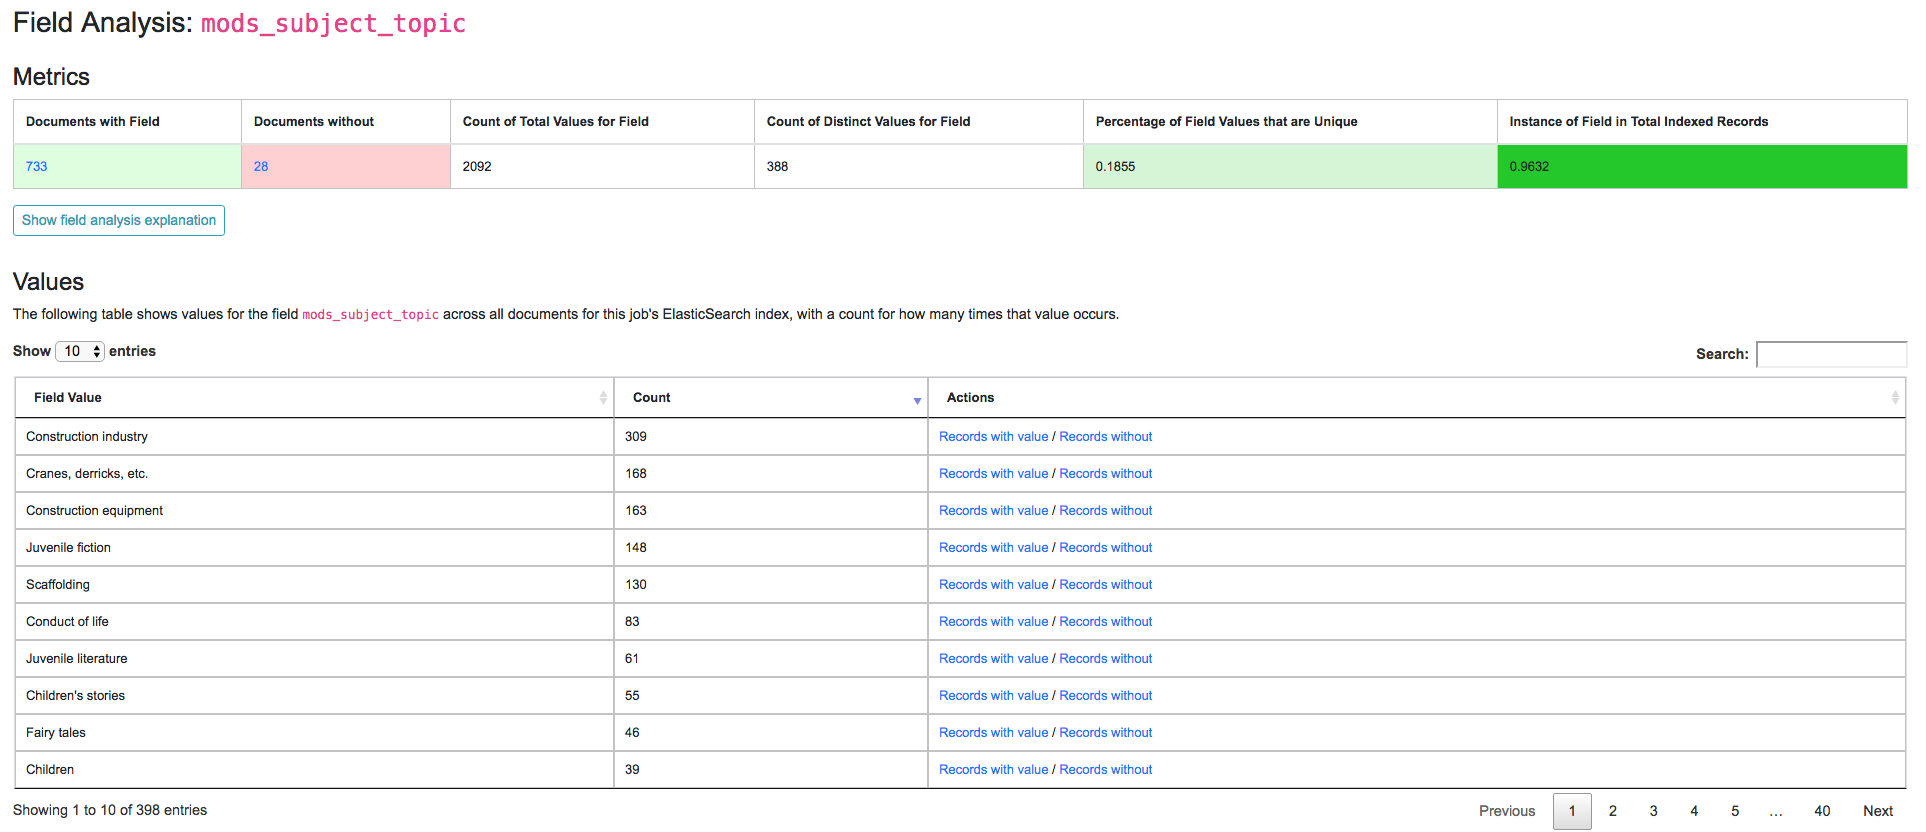
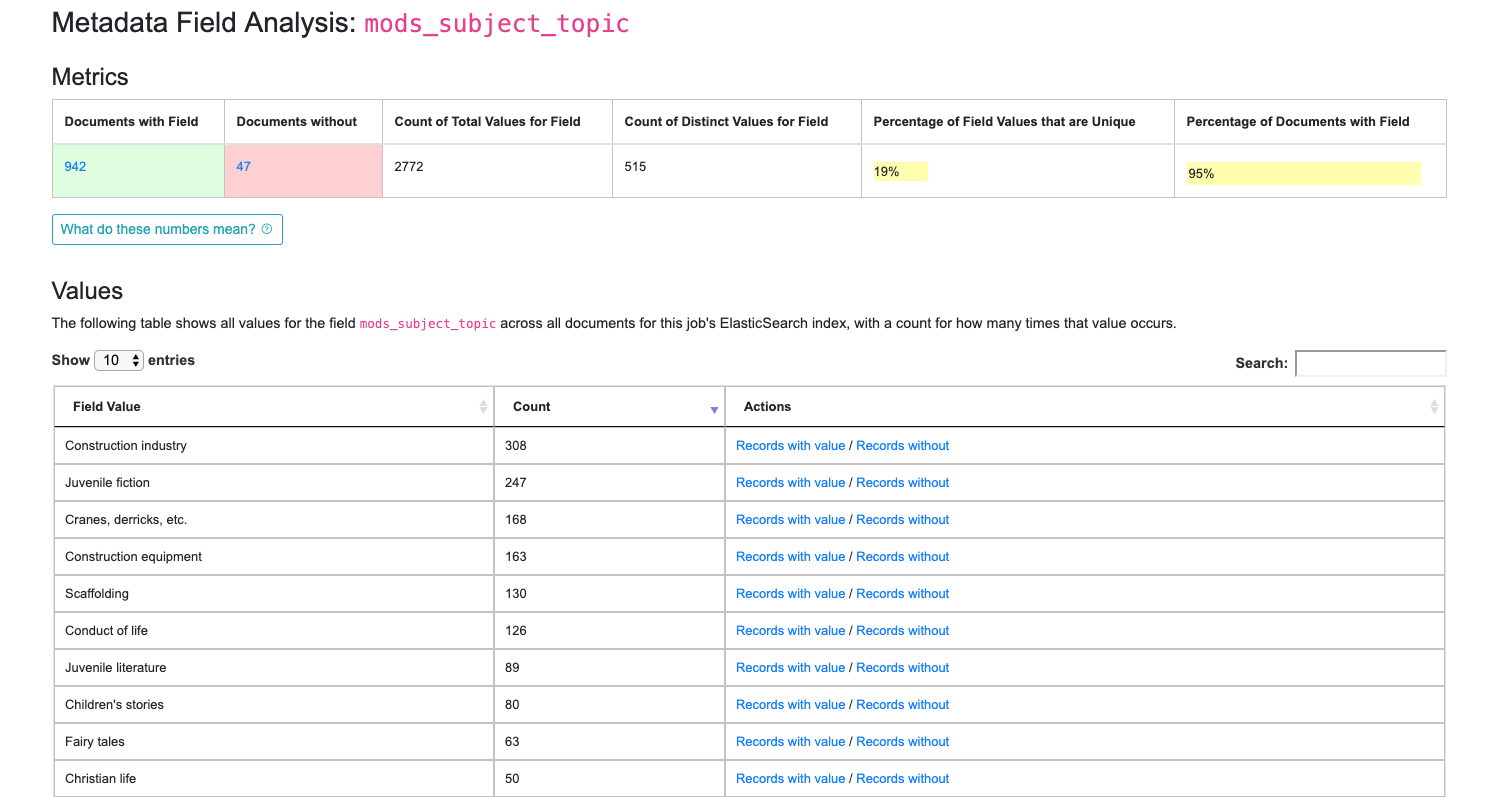
updating mapped fields documentation

diff --git a/docs/analysis.rst b/docs/analysis.rst
@@ -28,13 +28,13 @@ Below, is an example of an Analysis Job comparing two Jobs, from *different* Rec
 Analyzing Indexed Fields
 ========================
 
-Undoubtedly one of Combine's more interesting, confusing, and potentially powerful areas is the indexing of Record's XML into ElasticSearch.  This section will outline how that happens, and some possible insights that can be gleamed from the results.
+Undoubtedly one of Combine's more interesting, confusing, and potentially powerful areas is the indexing of Record XML into ElasticSearch.  This section will outline how that happens, and some possible insights that can be gleamed from the results.
 
 
 How and Why?
 ------------
 
-All Records in Combine store their raw metadata as XML in MySQL.  With that raw metadata, are some other fields about validity, internal identifiers, etc., as they relate to the Record.  But, because the metadata is still an opaque XML "blob" at this point, it does not allow for inspection or analysis.  To this end, when all Jobs are run, all Records are also **indexed** in ElasticSearch.
+All Records in Combine store their raw metadata as XML in a Mongo database.  With that raw metadata, are some other fields about validity, internal identifiers, etc., as they relate to the Record.  But, because the metadata is still an opaque XML "blob" at this point, it does not allow for inspection or analysis.  To this end, when all Jobs are run, all Records are also **indexed** in ElasticSearch.
 
 As many who have worked with complex metadata can attest to, flattening or mapping hierarchical metadata to a flat document store like ElasticSearch or Solr is difficult.  Combine approaches this problem by generically flattening all elements in a Record's XML document into XPath paths, which are converted into field names that are stored in ElasticSearch.  This includes attributes as well, further dynamically defining the ElasticSearch field name.
 
@@ -52,17 +52,13 @@ would become the following ElasticSearch field name:
 
 While ``mods_accessCondition_@type_useAndReproduction`` is not terribly pleasant to look at, it's telling where this value came from inside the XML document.  And most importantly, this generic XPath flattening approach can be applied across all XML documents that Combine might encounter.
 
-When running Jobs, users `can select what "Index Mapper" to use <workflow.html#id2>`_, and a user may notice in addition to the ``Generic XPath based mapper``, which is outlined above, Combine also ships with another mapper called ``Custom MODS mapper``.  This is mentioned to point out that other, custom mappers could be created and used if desired.
-
-The ``Custom MODS mapper`` is based on an old XSLT flattening map from MODS to Solr that early versions of Islandora used.  The results from this mapper result in far fewer indexed fields, which has pros and cons.  If the mapping is known and tightly controlled, this could be helpful for precise analysis of where information is going.  But, the generic mapper will -- in some way -- map all values from the XML record to ElasicSearch for analysis, albeit with unsightly field names.  Choices, choices!
-
-Creating a custom mapper would require writing a new class in the file ``core/spark/es.py``, matching the functionality of a pre-existing mapper like ``class GenericMapper(BaseMapper)``.
+This "flattening", aka "mapping", of XML to fields that can be stored and readily queried in ElasticSearch is done through `Field Mapping Configurations <configuration.html#field-mapper-configurations>`__.
 
 
 Breakdown of indexed fields for a Job
 ~~~~~~~~~~~~~~~~~~~~~~~~~~~~~~~~~~~~~
 
-When viewing the details of a Job, the tab "Field Analysis" shows a breakdown of all fields, for all documents in ElasticSearch, from this job in a table.  These are essentially facets.
+When viewing the details of a Job, the tab "Mapped Fields" shows a breakdown of all fields, for all records in this job, in a table.  They can be thought of roughly as **facets** for the Job.
 
 .. figure:: img/job_indexed_fields_example.png
    :alt: Example of Field Analysis tab from Job details, showing all indexed fields for a Job
@@ -70,7 +66,7 @@ When viewing the details of a Job, the tab "Field Analysis" shows a breakdown of
 
    Example of Field Analysis tab from Job details, showing all indexed fields for a Job
 
-There is a button "Show field analysis explanation" that outlines what the various columns mean:
+There is a button "What does these numbers mean?" that outlines what the various columns mean:
 
 .. figure:: img/field_analysis_explain.png
    :alt: Collapsible explanation of indexed fields breakdown table
